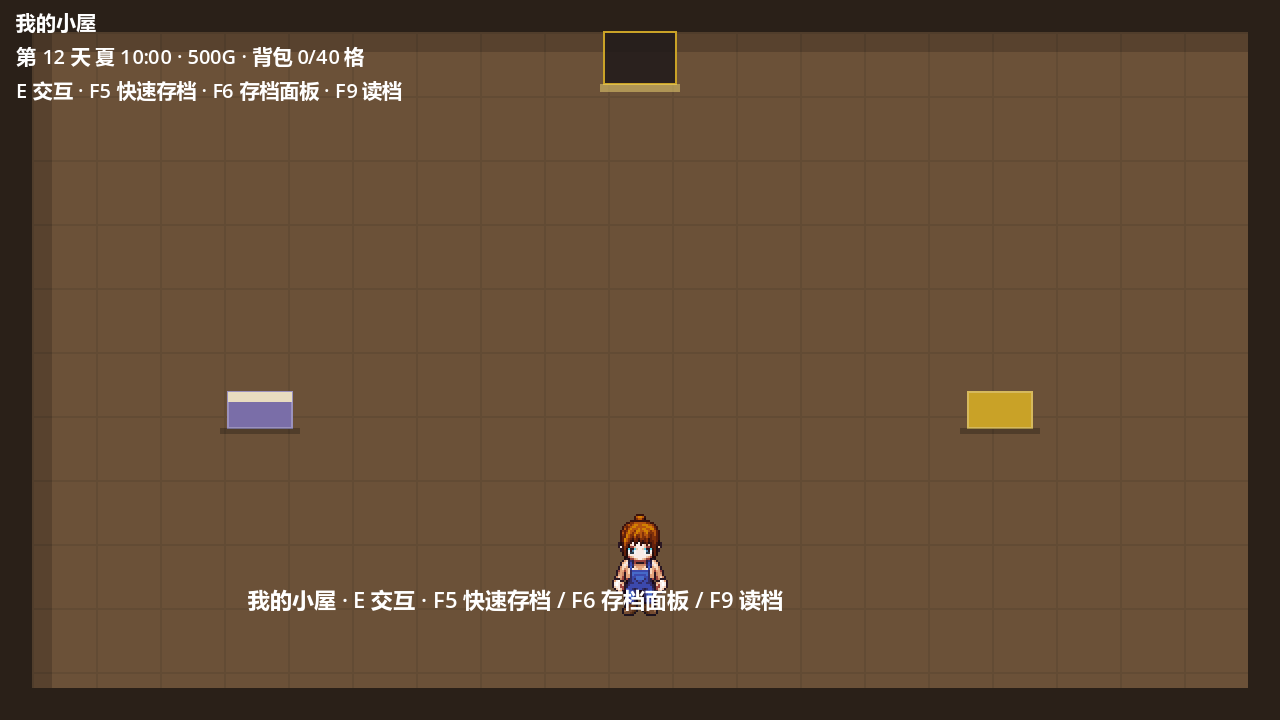
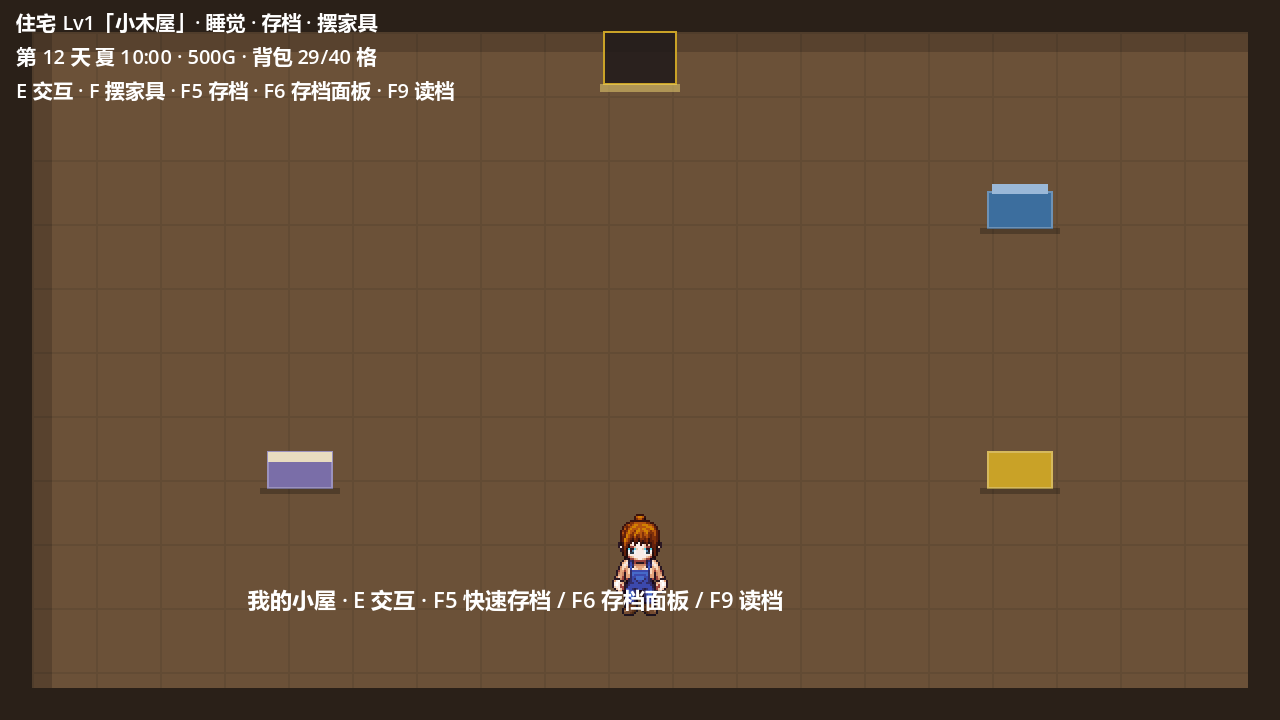
小牧场日记：模块11 复验 —— 存档与场景管理（17 套 2554 项全绿 · 修复截图脚本牧场首帧空图 · 7 张换场图按当前场景重拍）

diff --git a/小牧场日记/_uu/模块11-存档与场景管理.md b/小牧场日记/_uu/模块11-存档与场景管理.md
@@ -2,8 +2,10 @@
 
 > 完成于 2026-10-18。前置：模块 1（核心框架）✅ —— 这个模块本来就要最后做，因为它要等
 > 农田 / 牧群 / 订单 / NPC / 剧情这些数据系统全部就位。
-> 验收：`tests/test_module11.gd` —— **218 项断言全绿**；全量 16 个套件无回归。
+> 验收：`tests/test_module11.gd` —— **219 项断言全绿**；全量 17 个套件 2554 项无回归。
 > 存档升 **v4**（新增 `scene` 段）。
+> 复验（模块 12 合入后）：全套重跑仍全绿；顺手修了截图脚本「牧场首帧空图」的 bug
+> （见坑 10），7 张换场截图已按**当前**场景内容重拍（屋内是 Lv1 三级道具版）。
 
 ## 1. 需求对照
 
@@ -171,6 +173,10 @@ B 的好处：`capture` 直接复用模块 8 的 `_build_save()` —— **换场
 8. **`pool` 里多个存档位要防「手动覆盖自动档」**：面板 S 对槽 0 直接 no-op（自动档只由跨日写）。
 9. **`meta` 必须现算**：房间场景里时间照样在走，如果照抄离开牧场那一刻的 meta，
    在屋里存出来的档会写着「第 9 天」，实际已经是第 12 天。
+10. **截图引导节点不能 `queue_free` 自己**：它本身就是 `current_scene`，free 掉之后
+    `get_tree().current_scene` 变 null，第一张「牧场」截图是一张 4 KB 的空图
+    （输出里 `scene=` 为空就是警报）。正确做法是
+    `get_tree().change_scene_to_file.call_deferred("res://scenes/main.tscn")`。
 
 ## 7. 文件清单
 
@@ -184,7 +190,7 @@ scripts/world/room_exit.gd        RoomExit（出口 Interactable）
 scripts/world/room_prop.gd        RoomProp（床 / 存档柜 / 柜台 / 机器 / 告示牌）
 scripts/ui/save_panel.gd          SavePanel（autoload：多存档位面板）
 scenes/house.tscn / town.tscn / shop.tscn / mine.tscn   4 个场景（每个 6 行：Node2D + room_id）
-tests/test_module11.gd / .tscn    218 项断言
+tests/test_module11.gd / .tscn    219 项断言
 tests/shot_module11.gd / .tscn    真实换场 7 张截图
 _uu/模块11-存档与场景管理.md       本文档
 ```
@@ -209,6 +215,9 @@ _uu/run_tests.py               注册模块 11 套件
 ## 8. 还没做的（下一批）
 
 - 矿洞里的实际挖矿玩法（现在矿洞只有一台机器和一辆矿车，是剧情场景）
-- 屋内睡觉推进到第二天（`GameClock._roll_day` 是私有的，需要一个公开的「睡觉」入口）
 - 标题页（选档 / 新游戏）—— `SavePanel` + `SaveSystem.info()` 已经够铺标题页了
+- 存档缩略图（现在摘要只有「第几天 / 季节 / 金币 / 场景」一行字）
+
+> 原第 2 条「屋内睡觉推进到第二天」已由模块 12 补上：`GameClock.sleep_next_day()`
+> + `DayCycle.sleep_to_next_day()`，睡觉还会顺手写一次自动档。
 - 房间里的 NPC（现在 NPC 只按日程在牧场活动）与动态光照
